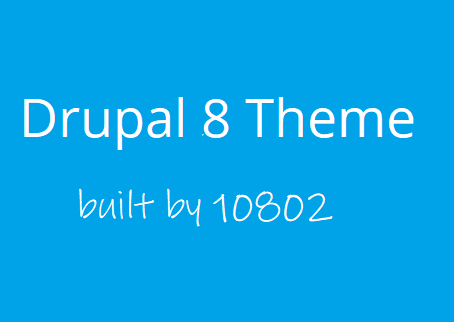
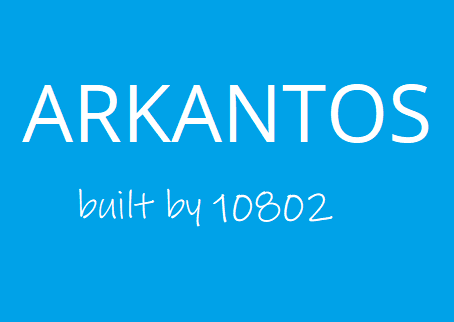
7

Changed region(s): [[0.0308, 0.2484, 0.9559, 0.4658]]

diff --git a/js/arkantos.js b/js/arkantos.js
@@ -1,0 +1,4 @@
+
+var url = window.location.href;
+console.log("Current URL is :"+url);
+

diff --git a/css/style.css b/css/style.css
@@ -1,0 +1,1 @@
+/*! Arkantos Theme Styling */
